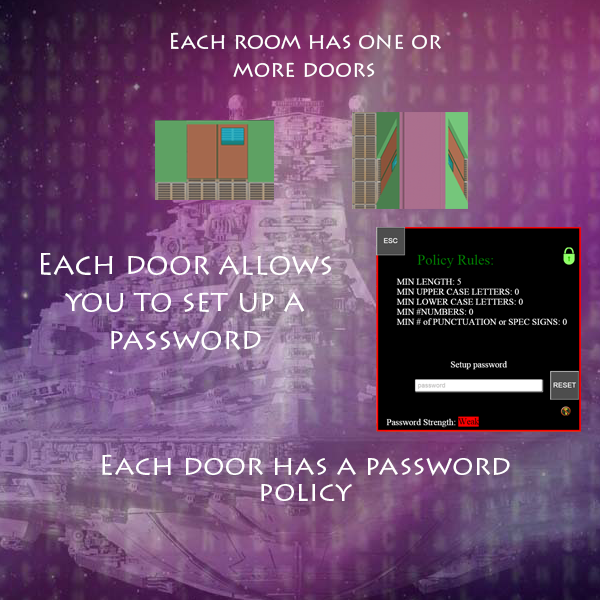
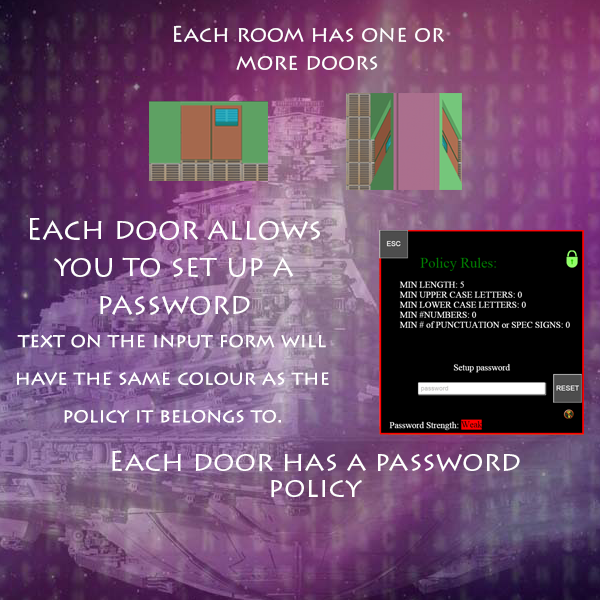
Added additional page for the instructions. Refined a few pages as well.

Changed region(s): [[0.03, 0.03, 0.99, 0.84], [0.48, 0.54, 0.54, 0.66]]

diff --git a/js/Instructions7.js b/js/Instructions7.js
@@ -10,7 +10,8 @@ Encrypt.Instructions7.prototype  = {
 
     create: function(){
         this.background = this.game.add.tileSprite (0, 0, this.game.width, this.game.height, 'seventhInstructionPage');
-        var startButton = this.game.add.button(this.game.width/2 -70, this.game.height - 90, 'startButtons', this.onActionClick, this, 1, 0);
+        var skipButton = this.game.add.button(this.game.width/2 -70, this.game.height - 90, 'skipButtons', this.onActionClick, this, 1, 0);
+        var nextButton = this.game.add.button(this.game.width/2 + 120, this.game.height - 90, 'nextArrow', this.nextPage, this, 1, 0);
         var previousButton = this.game.add.button(this.game.width/2 -250, this.game.height - 90, 'previousArrow', this.previousPage, this, 0, 1);
     },
 
@@ -20,5 +21,9 @@ Encrypt.Instructions7.prototype  = {
 
     previousPage: function(){
         this.game.state.start('Instructions6');
+    },
+
+    nextPage: function(){
+        this.game.state.start('Instructions8');
     }
 };

diff --git a/js/Instructions8.js b/js/Instructions8.js
@@ -1,0 +1,24 @@
+/**
+ * Created by andi on 01/02/15.
+ * modified by Iva 07/02/2015
+ */
+Encrypt = Encrypt || {};
+
+Encrypt.Instructions8 = function(){};
+
+Encrypt.Instructions8.prototype  = {
+
+    create: function(){
+        this.background = this.game.add.tileSprite (0, 0, this.game.width, this.game.height, 'eighthInstructionPage');
+        var startButton = this.game.add.button(this.game.width/2 -70, this.game.height - 90, 'startButtons', this.onActionClick, this, 1, 0);
+        var previousButton = this.game.add.button(this.game.width/2 -250, this.game.height - 90, 'previousArrow', this.previousPage, this, 0, 1);
+    },
+
+    onActionClick: function(){
+        this.game.state.start('Game');
+    },
+
+    previousPage: function(){
+        this.game.state.start('Instructions7');
+    }
+};

diff --git a/js/Game.js b/js/Game.js
@@ -375,6 +375,10 @@ Encrypt.Game.prototype = {
       this.createDoorFromTiledObject(element, this.doors, doorID, 'sideDoor');
       doorID++;
     }, this);
+
+    this.doors.forEach(function (element) {
+      console.log(element.z + " " + element.policy);
+    }, this);
   },
 
   /********************* POLICY METHODS ************************
@@ -793,7 +797,7 @@ Encrypt.Game.prototype = {
     Object.keys(element.properties).forEach(function (key) {
       sprite[key] = element.properties[key];
     });
-    console.log(doorID+" "+element.properties.policy);
+    console.log(element.z+" "+element.properties.policy);
   },
   /*************************METHODS CALLED BY UPDATE() **************************
    * @param doorObject

diff --git a/js/Preload.js b/js/Preload.js
@@ -73,6 +73,7 @@ Encrypt.Preload.prototype = {
     this.load.image ('fifthInstructionPage', 'assets/images/fifthPageOfInstructions.png');
     this.load.image ('sixthInstructionPage', 'assets/images/sixthPageOfInstructions.png');
     this.load.image ('seventhInstructionPage', 'assets/images/seventhPageOfInstructions.png');
+    this.load.image ('eighthInstructionPage', 'assets/images/eighthPageOfInstructions.png');
 
     // buttons:
     // this.load.spritesheet ('instructionsButt', 'assets/images/ButtonImages/instrButtonSprite.png', 64, 130);

diff --git a/index.html b/index.html
@@ -25,6 +25,7 @@ session_start();
 	<script type="text/javascript" src="js/Instructions5.js"></script>
 	<script type="text/javascript" src="js/Instructions6.js"></script>
 	<script type="text/javascript" src="js/Instructions7.js"></script>
+	<script type="text/javascript" src="js/Instructions8.js"></script>
 	<script type="text/javascript" src="js/GameWon.js"></script>
 	<script type="text/javascript" src="js/GameLost.js"></script>
 	<script type="text/javascript" src="js/phaser_pathfinding-0.2.0.js"></script>

diff --git a/js/main.js b/js/main.js
@@ -16,6 +16,7 @@ Encrypt.game.state.add('Instructions4', Encrypt.Instructions4);
 Encrypt.game.state.add('Instructions5', Encrypt.Instructions5);
 Encrypt.game.state.add('Instructions6', Encrypt.Instructions6);
 Encrypt.game.state.add('Instructions7', Encrypt.Instructions7);
+Encrypt.game.state.add('Instructions8', Encrypt.Instructions8);
 Encrypt.game.state.add('Game', Encrypt.Game);
 
 
